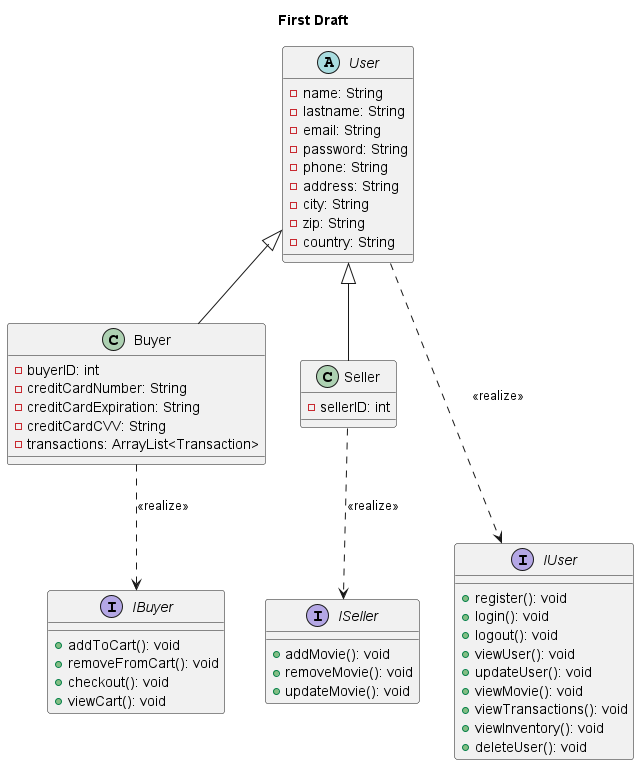
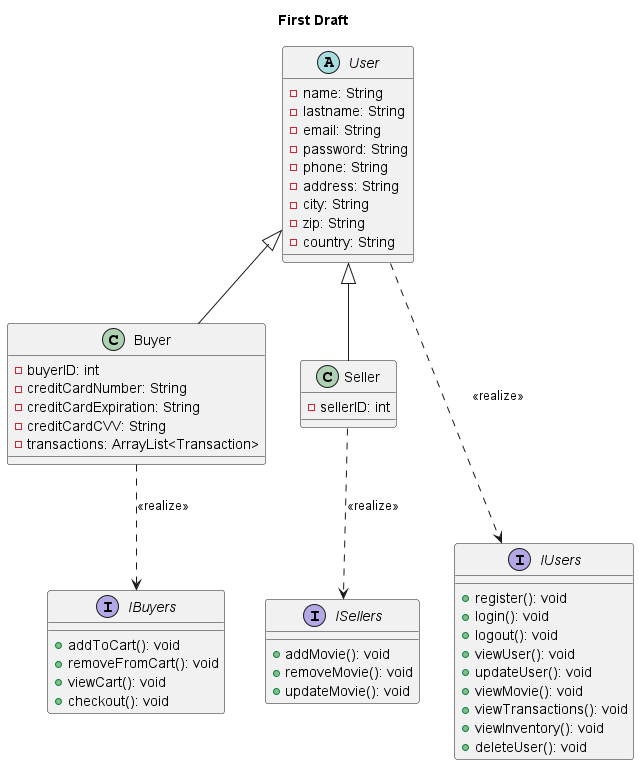
Creation Of Classes + Interfaces

diff --git a/src/main/java/Project/Interfaces/IUsers.java b/src/main/java/Project/Interfaces/IUsers.java
@@ -1,0 +1,21 @@
+package Project.Interfaces;
+
+public interface IUsers {
+    void register();
+
+    void login();
+
+    void logout();
+
+    void viewUser();
+
+    void updateUser();
+
+    void viewMovie();
+
+    void viewTransactions();
+
+    void viewInventory();
+
+    void deleteUser();
+}

diff --git a/src/main/java/Project/Interfaces/IBuyers.java b/src/main/java/Project/Interfaces/IBuyers.java
@@ -1,0 +1,11 @@
+package Project.Interfaces;
+
+public interface IBuyers {
+    void addToCart();
+
+    void removeFromCart();
+
+    void viewCart();
+
+    void checkout();
+}

diff --git a/src/main/java/Project/Interfaces/ISellers.java b/src/main/java/Project/Interfaces/ISellers.java
@@ -1,0 +1,9 @@
+package Project.Interfaces;
+
+public interface ISellers {
+    void addMovie();
+
+    void removeMovie();
+
+    void updateMovie();
+}

diff --git a/src/main/java/Project/Classes/Maintypes/Seller.java b/src/main/java/Project/Classes/Maintypes/Seller.java
@@ -1,0 +1,4 @@
+package Project.Classes.Maintypes;
+
+public class Seller extends User {
+}

diff --git a/src/main/java/Project/Classes/Maintypes/Buyer.java b/src/main/java/Project/Classes/Maintypes/Buyer.java
@@ -1,0 +1,4 @@
+package Project.Classes.Maintypes;
+
+public class Buyer extends User {
+}

diff --git a/src/main/java/Project/Classes/Maintypes/User.java b/src/main/java/Project/Classes/Maintypes/User.java
@@ -1,0 +1,4 @@
+package Project.Classes.Maintypes;
+
+public abstract class User {
+}

diff --git a/src/main/java/Project/Classes/Subtypes/Transaction.java b/src/main/java/Project/Classes/Subtypes/Transaction.java
@@ -1,0 +1,4 @@
+package Project.Classes.Subtypes;
+
+public class Transaction {
+}

diff --git a/src/main/java/Project/Classes/Subtypes/Movie.java b/src/main/java/Project/Classes/Subtypes/Movie.java
@@ -1,0 +1,4 @@
+package Project.Classes.Subtypes;
+
+public class Movie {
+}

diff --git a/src/main/java/Project/Classes/Application.java b/src/main/java/Project/Classes/Application.java
@@ -1,0 +1,4 @@
+package Project.Classes;
+
+public class Application {
+}
